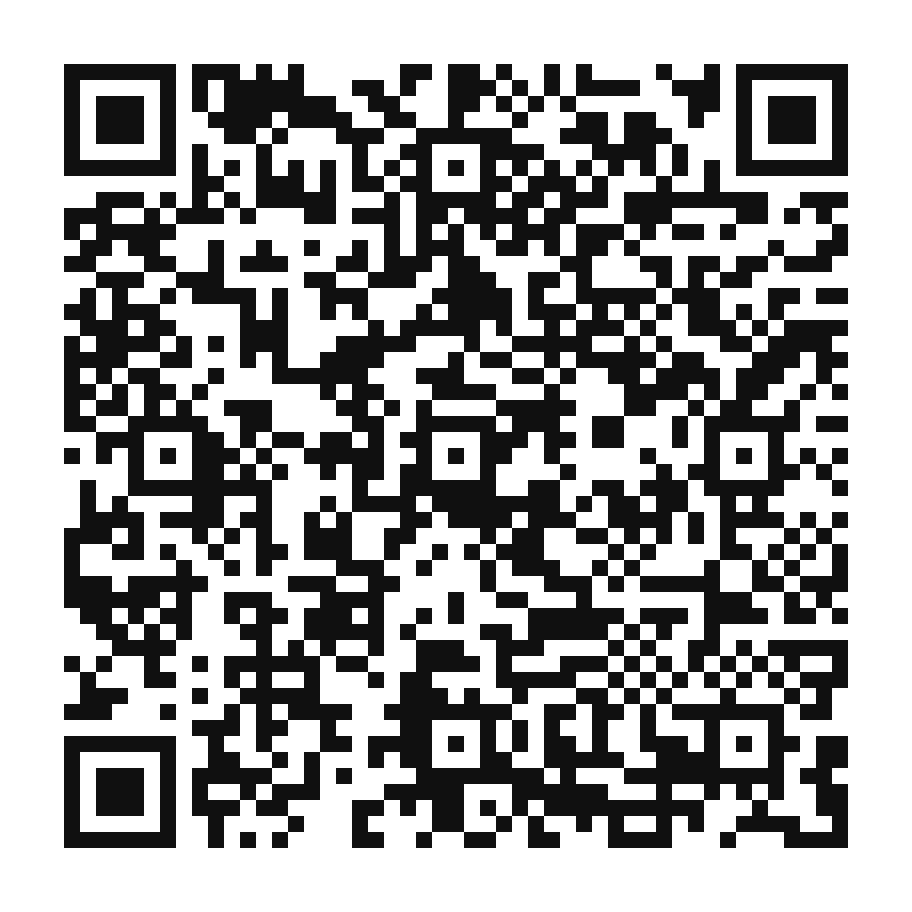
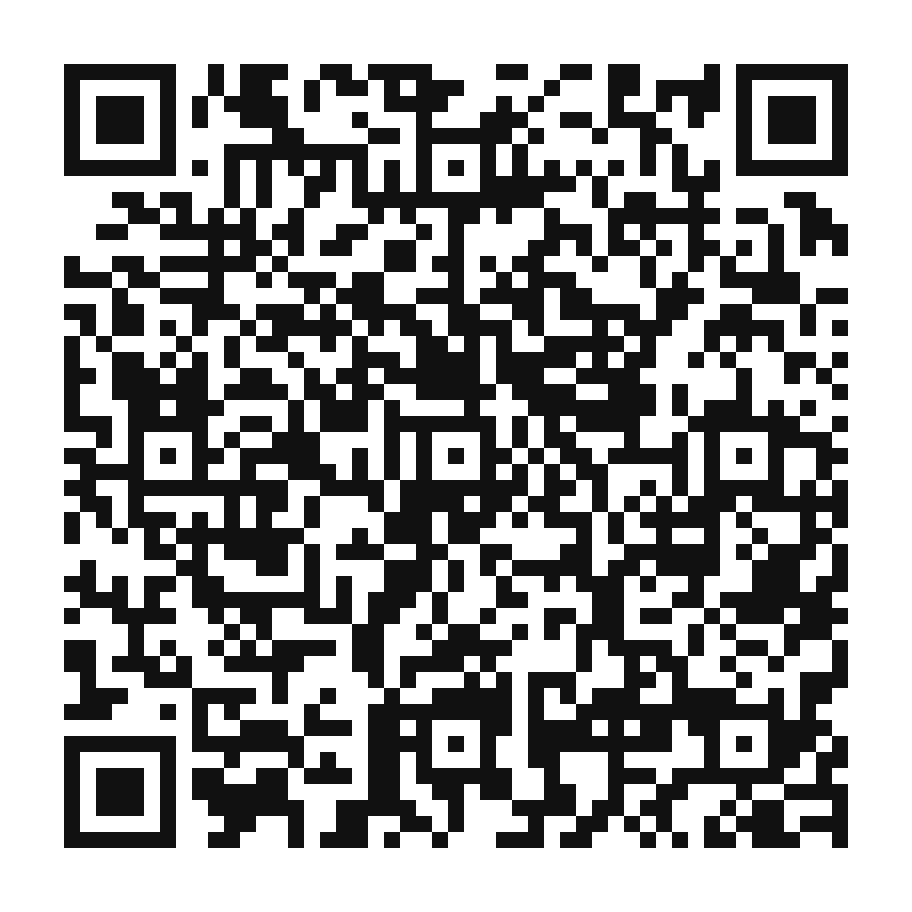
Refresh QR link to deployed Fashion Fit

Changed region(s): [[0.0614, 0.0614, 0.9518, 0.9518]]

diff --git a/index.html b/index.html
@@ -709,13 +709,13 @@
     </section>
 
     <section class="qr-promo" aria-labelledby="qr-title">
-      <a class="qr-link-image" href="https://sumi-cpu.github.io/Fashion-Fit/?v=32a387c070cdd1ba8b71dc61c72b4c63d8df21bb" target="_blank" rel="noopener noreferrer">
+      <a class="qr-link-image" href="https://sumi-cpu.github.io/Fashion-Fit/?v=0ac715a1168c4c7afbd7b78b51be611ddb71f5df" target="_blank" rel="noopener noreferrer">
         <img src="assets/fashion-fit-qr.png" alt="QR code to open the Fashion Fit live sizing demo">
       </a>
       <div class="qr-copy">
         <p class="innovation-label">Share the live demo</p>
         <h2 class="qr-title" id="qr-title">Scan to open Fashion Fit</h2>
-        <p>Open the live sizing demo on your phone, or <a class="qr-open-link" href="https://sumi-cpu.github.io/Fashion-Fit/?v=32a387c070cdd1ba8b71dc61c72b4c63d8df21bb" target="_blank" rel="noopener noreferrer">open Fashion Fit</a>.</p>
+        <p>Open the live sizing demo on your phone, or <a class="qr-open-link" href="https://sumi-cpu.github.io/Fashion-Fit/?v=0ac715a1168c4c7afbd7b78b51be611ddb71f5df" target="_blank" rel="noopener noreferrer">open Fashion Fit</a>.</p>
       </div>
     </section>
 

diff --git a/README.md b/README.md
@@ -27,5 +27,5 @@ The app is a single `index.html` file with no build step or app dependencies. Gi
 ## Open or share the live demo
 
 Scan the QR code near the top of the app, or use the cache-busted live URL:
-<https://sumi-cpu.github.io/Fashion-Fit/?v=32a387c070cdd1ba8b71dc61c72b4c63d8df21bb>.
+<https://sumi-cpu.github.io/Fashion-Fit/?v=0ac715a1168c4c7afbd7b78b51be611ddb71f5df>.
 The high-contrast QR image is tracked at [`assets/fashion-fit-qr.png`](assets/fashion-fit-qr.png).
